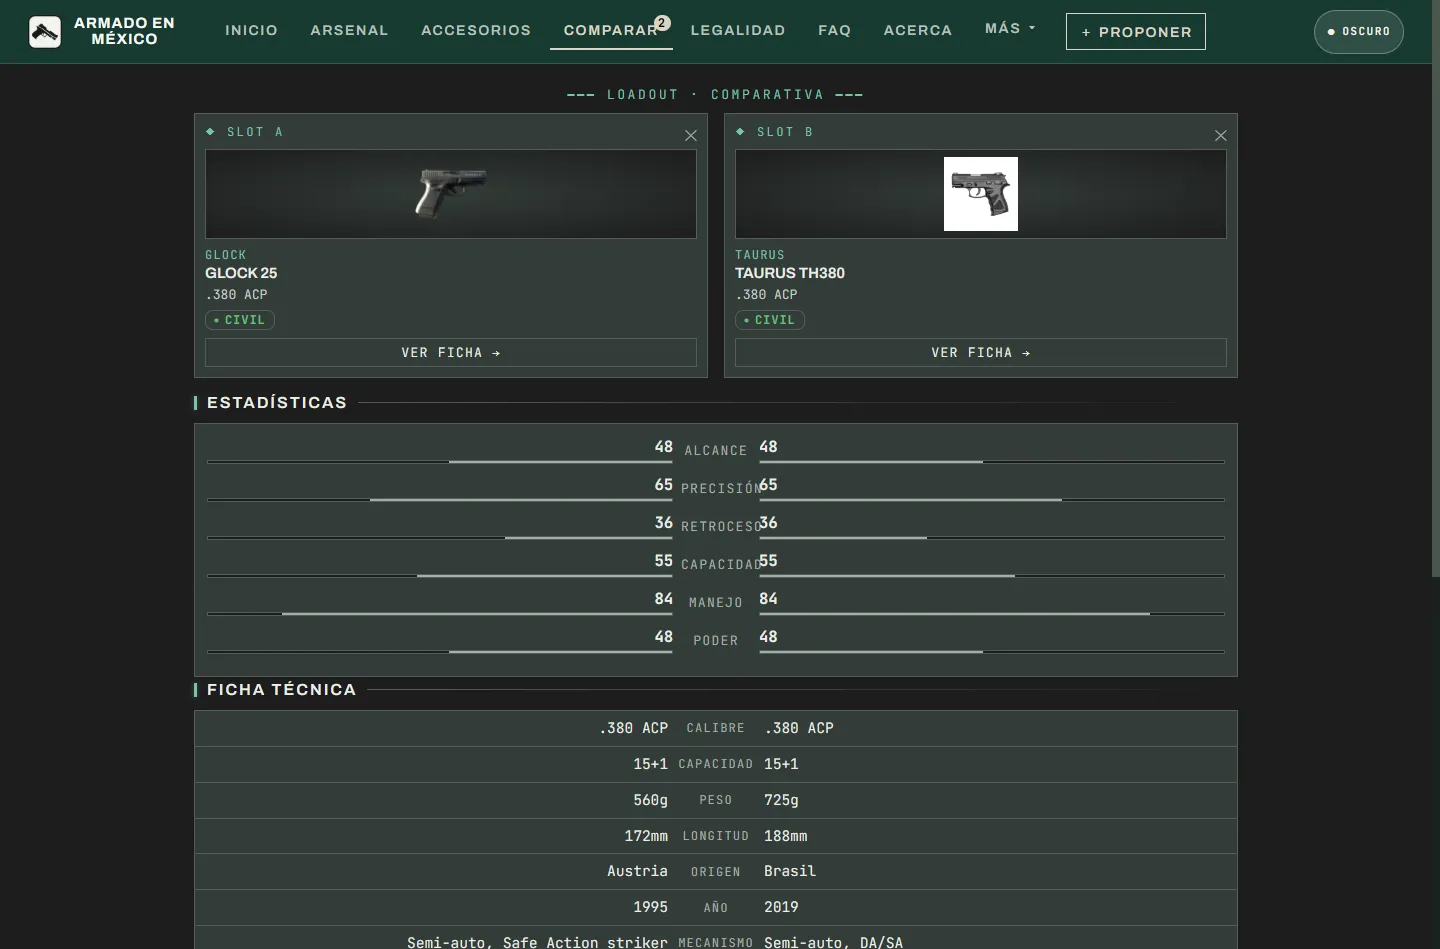
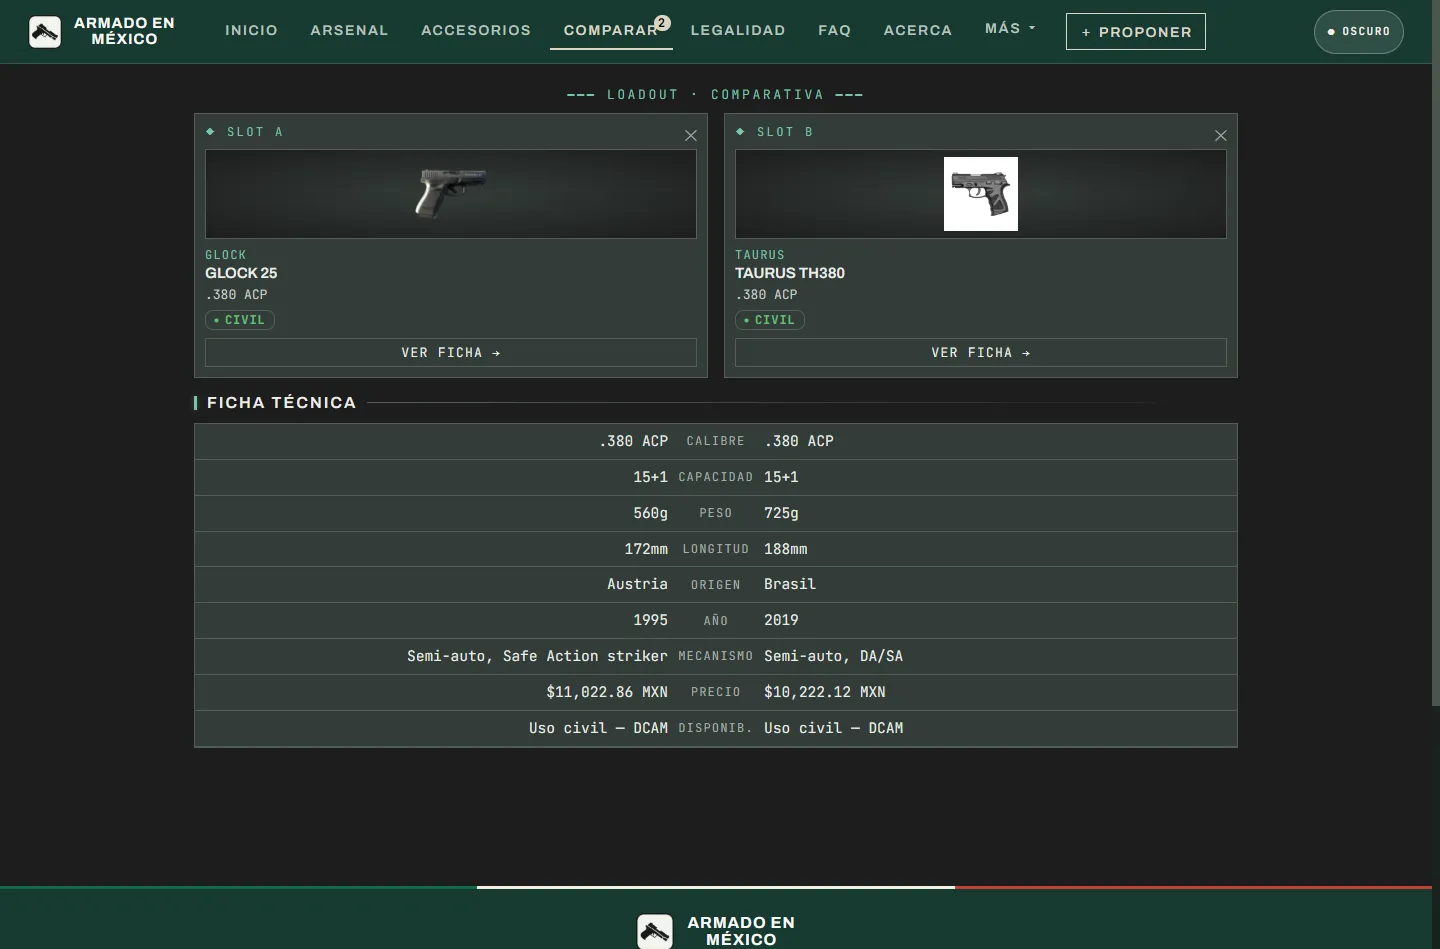
README: comparador recapturado sin ESTADÍSTICAS, desde el preview del PR #130
La captura sale de https://713479b3.armado-en-mexico.pages.dev, el build del
PR #130, que quita del comparador la sección ESTADÍSTICAS y deja la ficha
técnica. Misma pareja que la captura anterior (Glock 25 frente a Taurus
TH380), a 1440 px de ancho y en tema oscuro como las otras tres.

Mientras #130 no llegue a main, armado.mx sigue enseñando las barras:
conviene mergear este README después de #130 o junto con él, para que la
captura coincida con el sitio.

Pie: «dos armas lado a lado, con su ficha técnica».

Changed region(s): [[0.0, 0.4584, 1.0, 1.0], [0.9688, 0.6112, 1.0, 0.7334], [0.1562, 0.3973, 0.25, 0.4278]]

diff --git a/README.md b/README.md
@@ -16,7 +16,7 @@ bots de IA —que no ejecutan JavaScript— vean el contenido real. El sitemap d
 |  |  |
 |---|---|
 | <img src="docs/capturas/portada.webp" alt="Portada de armado.mx"><br>**Portada** — las armas destacadas en su expediente y los favoritos de Armas M&S | <img src="docs/capturas/arsenal.webp" alt="Arsenal con filtros"><br>**Arsenal** — filtros por tipo, calibre, uso y disponibilidad |
-| <img src="docs/capturas/ficha.webp" alt="Ficha de arma con historial de precio"><br>**Ficha de arma** — clasificación legal y precio DCAM con historial | <img src="docs/capturas/comparador.webp" alt="Comparador de armas"><br>**Comparador** — dos armas enfrentadas, dato a dato |
+| <img src="docs/capturas/ficha.webp" alt="Ficha de arma con historial de precio"><br>**Ficha de arma** — clasificación legal y precio DCAM con historial | <img src="docs/capturas/comparador.webp" alt="Comparador de armas"><br>**Comparador** — dos armas lado a lado, con su ficha técnica |
 
 ## Qué hace
 
